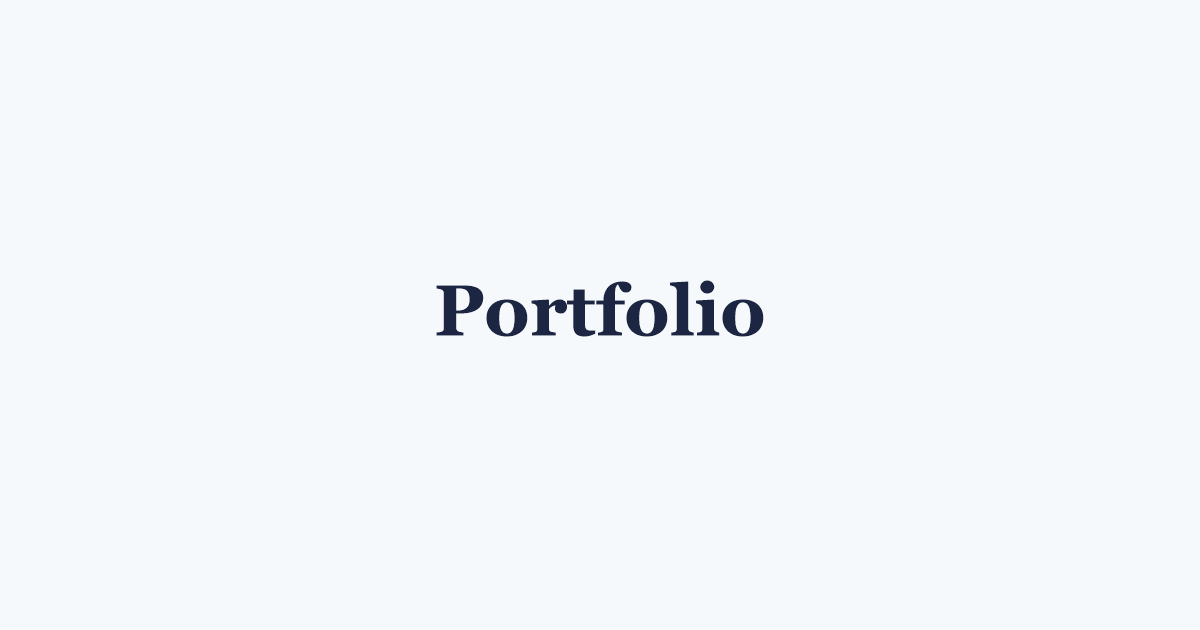
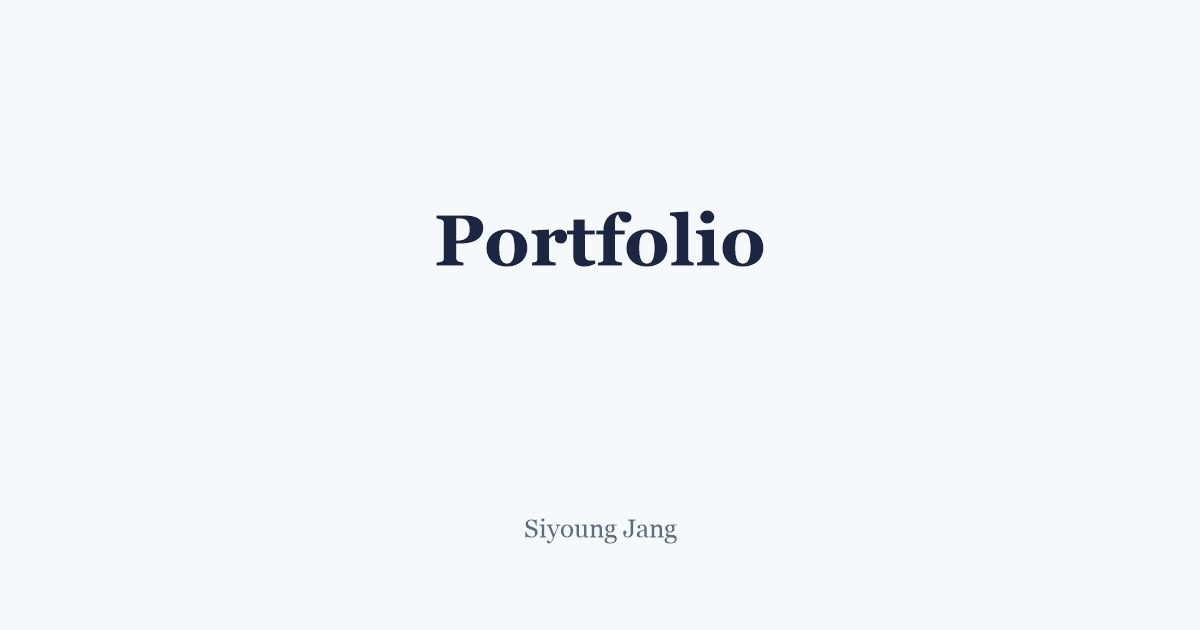
Polish portfolio copy and project metadata

Changed region(s): [[0.37, 0.4524, 0.6475, 0.5429], [0.37, 0.3317, 0.6475, 0.4222], [0.4317, 0.8143, 0.5858, 0.8746]]

diff --git a/portfolio/script.js b/portfolio/script.js
@@ -138,6 +138,7 @@ const content = {
     ],
     i18n: {
       "hero.name": "Siyoung Jang",
+      "hero.role": "서비스 기획자",
       "hero.headline": "문제를 구조로 바꿔 팀이 실행할 수 있게 만드는 기획자",
       "hero.cta_contact": "Contact Me",
       "hero.desc": "문서만 정리하는 데서 멈추지 않습니다. 목적을 정의하고 사용자 흐름과 전달 기준을 설계한 뒤, 검토 가능한 프로토타입과 배포 방식까지 연결해 더 빠르고 명확한 협업 구조를 만듭니다.",
@@ -162,28 +163,28 @@ const content = {
   },
   en: {
     heroStats: [
-      { value: "3 -> 1", label: "Stakeholders reduced" },
+      { value: "3 -> 1", label: "Initial stakeholders reduced" },
       { value: "1 week -> 3 days", label: "Review and approval lead time" },
-      { value: "Problem to Structure", label: "Reframing work into execution" },
-      { value: "Stats in Progress", label: "Quantitative thinking in progress" },
+      { value: "Problem to Structure", label: "Reframing problems into execution structures" },
+      { value: "Stats in Progress", label: "Strengthening quantitative thinking" },
     ],
     summary: [
-      "I am a planner with experience across both operations and service planning, working from both data and user flow to define problems in a structured way.",
-      "On the operations side, I used metrics and schedule adjustments to cut losses by 50% for an event that had been loss-making the previous year, which strengthened my ability to identify issues through numbers and turn them into action.",
-      "More recently, I used AI to connect documents, prototypes, and web distribution into a reviewable workflow, shortening reporting and approval lead time from one week to three days.",
+      "I am a planner with experience across both operations and service planning, defining problems through both data and user flow.",
+      "In operations, I used metrics and schedule adjustments to reduce losses by 50% for an event that had recorded losses the year before, which strengthened my ability to identify problems through numbers and turn them into action.",
+      "More recently, I built an AI-assisted review workflow connecting documents, prototypes, and web publishing, reducing reporting and approval lead time from one week to three days.",
     ],
     strengths: [
       {
         title: "Proactive Worker",
-        description: "Rather than waiting for problems to fully surface, I try to spot them early and actively suggest improvements. When I see repeated friction, I move quickly to test a better way forward.",
+        description: "Rather than waiting for problems to fully surface, I try to spot early signals and propose improvements proactively. When I see repeated friction, I move quickly to test a better way forward.",
       },
       {
         title: "Structured Thinker",
-        description: "I turn ambiguity into clarity so teams can move with more speed and confidence. By defining scope, priorities, and criteria, I help people execute in the same direction.",
+        description: "I turn ambiguity into clarity so teams can move with more speed and confidence. By defining scope, priorities, and criteria, I help teams execute in the same direction.",
       },
       {
         title: "Context-Aware Communicator",
-        description: "I believe more than one solution can be valid. What matters is not forcing a single answer, but aligning with the organization, the stakeholders, and the context to decide what works best together.",
+        description: "I believe more than one solution can be valid. What matters is not forcing a single answer, but aligning with the organization, the stakeholders, and the context to decide what works best.",
       },
       {
         title: "Logic-Driven Planner",
@@ -196,13 +197,13 @@ const content = {
         role: "Service Planner",
         period: "2024.04 - Present",
         duration: "1 yr 11 mos",
-        summary: "Planning for a B2C mobile web poker game",
+        summary: "Service planning for a B2C mobile web poker game",
         highlights: [
-          "Feature requirement definition",
+          "Feature requirements definition",
           "User flow design",
-          "Information architecture planning",
-          "Vibe-coding-based prototyping",
-          "Collaboration documentation improvement",
+          "Information architecture design",
+          "Vibe-coded prototyping",
+          "Collaboration documentation structure improvement",
           "Version control and web publishing",
         ],
       },
@@ -233,19 +234,19 @@ const content = {
     projects: [
       {
         tag: "Project 01",
-        title: "AX-based Document Collaboration Improvement",
+        title: "AI-Driven Document Collaboration Process Improvement",
         meta: "Service Planner | 2024",
-        description: "A case where I reframed documentation as a collaboration issue and connected PRDs, prototypes, and web distribution to improve review speed and delivery clarity.",
+        description: "A case where I reframed documentation as a collaboration issue and connected PRDs, prototypes, and web publishing to improve review speed and delivery clarity.",
         href: "case-ai-doc-process.html",
-        cta: "View Case Study",
+        cta: "Learn More",
       },
       {
         tag: "Project 02",
-        title: "Texas Hold'em Lobby Structure Redesign",
+        title: "Texas Hold'em Lobby Structure Improvement",
         meta: "UX Planning | In Progress",
-        description: "An ongoing project redesigning the lobby experience from an information architecture and user flow perspective.",
+        description: "An ongoing project redesigning the lobby experience through information architecture and user flow improvements.",
         href: "case-lobby-redesign.html",
-        cta: "View Progress",
+        cta: "Learn More",
       },
     ],
     skills: [
@@ -257,7 +258,7 @@ const content = {
           },
           {
             name: "Data Analysis Foundations",
-            detail: "I am building a stronger foundation in data analysis through SQL, Python, and statistics to support more informed decision-making.",
+            detail: "I am strengthening my foundation in data analysis through SQL, Python, and statistics to support more informed decision-making.",
           },
           {
             name: "Figma",
@@ -269,7 +270,7 @@ const content = {
           },
           {
             name: "GitHub",
-            detail: "I used GitHub to manage versions of documents and prototypes, making it easier for the team to stay aligned on the latest source of truth.",
+            detail: "I use GitHub to manage versions of documents and prototypes, making it easier for teams to stay aligned on the latest source of truth.",
           },
         ],
       },
@@ -277,7 +278,7 @@ const content = {
     learning: [
       {
         name: "Data-Informed Thinking",
-        detail: "I am building a stronger foundation in statistics, SQL, and Python so I can make planning decisions with clearer evidence, not only intuition. Ongoing study notes are documented on Velog.",
+        detail: "I am building a stronger foundation in statistics, SQL, and Python so I can make planning decisions with clearer evidence, not intuition alone. Ongoing study notes are documented on Velog.",
       },
       {
         name: "AI-Native Workflow",
@@ -296,26 +297,27 @@ const content = {
     ],
     i18n: {
       "hero.name": "Siyoung Jang",
+      "hero.role": "Product Manager",
       "hero.headline": "A planner who turns problems into structures teams can execute",
       "hero.cta_contact": "Contact Me",
-      "hero.desc": "I do more than organize documents. I define the purpose, design user flow and delivery criteria, then connect them to reviewable prototypes and distribution so teams can move faster with more clarity.",
+      "hero.desc": "I do more than organize documents. I define the purpose, design user flows and delivery criteria, then connect them to reviewable prototypes and publishing workflows so teams can move faster with more clarity.",
       "hero.cta_projects": "View Projects",
       "about.sub": "A brief introduction to my career path and key outcomes.",
-      "about.lens1": "I look first at why the same issue keeps recurring, not just at surface requests.",
+      "about.lens1": "I start by asking why the same issue keeps recurring, rather than focusing only on surface-level requests.",
       "about.lens2": "My strength is not in producing more documents, but in clarifying execution criteria and delivery structure.",
       "about.lens3": "New tools are selected as means to solve problems, not goals in themselves.",
       "about.focus": "Planning work that turns process inefficiency into structural improvement",
-      "experience.sub": "My problem-definition instinct was shaped across both operations and planning.",
+      "experience.sub": "My instinct for problem definition was shaped through both operations and planning.",
       "skills.panelTitle": "Skills",
-      "skills.panelDesc": "Split into hard and soft skills to show how I actually applied them in work.",
+      "skills.panelDesc": "Organized by hard and soft skills to show how I apply them in real work.",
       "skills.certEyebrow": "Verified",
       "skills.certTitle": "Certificates",
       "learning.title": "What I Am Learning",
       "skills.sub": "The working style and keywords that best describe how I contribute.",
-      "projects.sub": "Projects where I changed collaboration structure in AX environments.",
+      "projects.sub": "Projects where I improved collaboration structures in AI-assisted environments.",
       "contact.sub": "Feel free to reach out about products, problems, and how we build them together.",
       "contact.desc": "",
-      "hero.note": "This portfolio was structured by a planner and built through a vibe-coding-based workflow.",
+      "hero.note": "This portfolio was structured by a planner and built through a vibe-coded workflow.",
     },
   },
 };

diff --git a/portfolio/case-ai-doc-process.html b/portfolio/case-ai-doc-process.html
@@ -25,6 +25,7 @@
       <a href="index.html" class="back-link">← Home</a>
       <span class="case-hero__tag">Project 1</span>
       <h1 class="case-hero__title">AI 기반 문서 협업 프로세스 개선</h1>
+      <p class="case-hero__meta">LULU.AI · 2026 · 2개월</p>
       <p class="case-hero__headline">
         문서 중심 협업을 구조 문제로 다시 정의하고,<br>
         PRD, 프로토타입, 웹 배포를 연결한 검토 방식으로 보고와 컨펌 속도를 줄였습니다.

diff --git a/portfolio/index.html b/portfolio/index.html
@@ -75,7 +75,7 @@
               </a>
             </div>
           </div>
-          <p class="profile-hero__role">Product Manager / Service Planner</p>
+          <p class="profile-hero__role" data-i18n="hero.role">서비스 기획자</p>
           <p class="profile-hero__headline" data-i18n="hero.headline">문제를 구조로 바꿔 팀이 실행할 수 있게 만드는 기획자</p>
           <div class="profile-hero__about">
             <h2 class="profile-hero__about-title">About Me</h2>

diff --git a/portfolio/styles.css b/portfolio/styles.css
@@ -1173,7 +1173,15 @@ button, input, textarea, select { font: inherit; }
   font-size: clamp(2rem, 4vw, 3rem);
   font-weight: 800;
   line-height: 1.15;
-  margin-bottom: 16px;
+  margin-bottom: 10px;
+}
+
+.case-hero__meta {
+  margin-bottom: 14px;
+  color: var(--accent);
+  font-size: 0.84rem;
+  font-weight: 700;
+  letter-spacing: 0.04em;
 }
 
 .case-hero__headline {
